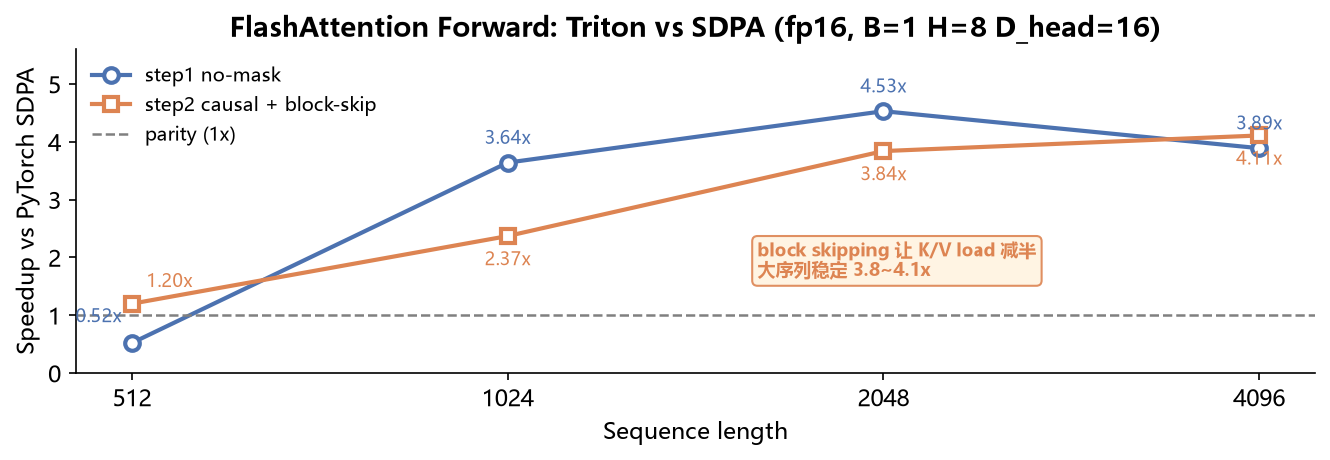
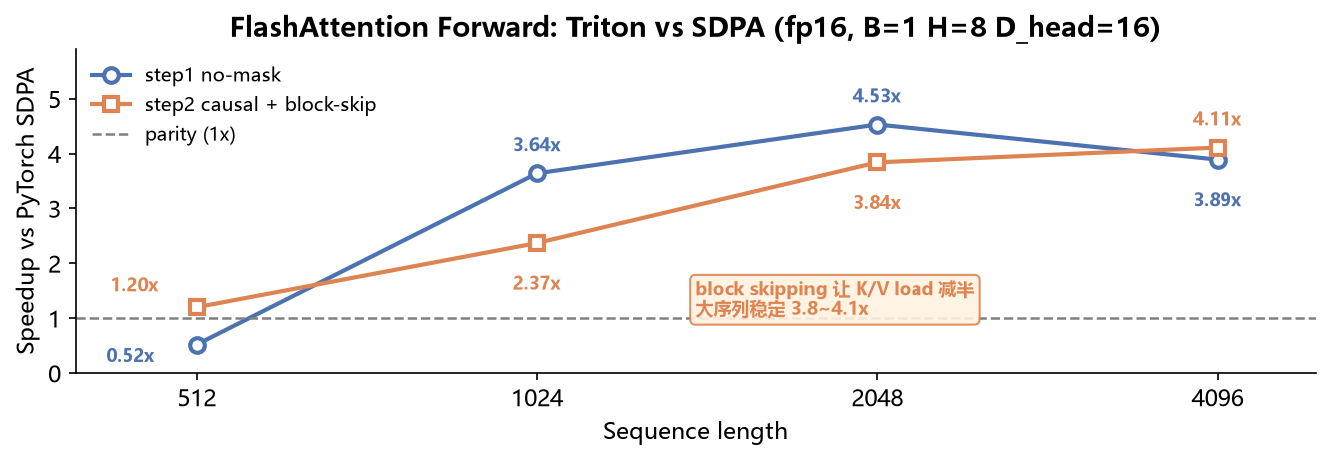
fix: 前向加速比图数值标签避开曲线与标记

diff --git a/plot_figures.py b/plot_figures.py
@@ -38,14 +38,17 @@ ax.plot(S, s1, marker="o", markersize=7, linewidth=2, color=C_BASE,
 ax.plot(S, s2, marker="s", markersize=7, linewidth=2, color=C_ACC,
         markerfacecolor="white", markeredgewidth=2, label="step2 causal + block-skip")
 ax.axhline(1.0, color="gray", linestyle="--", linewidth=1.2, label="parity (1x)")
-for x, y in zip(S, s1):
-    ax.annotate(f"{y:.2f}x", (x, y), textcoords="offset points",
-                xytext=(-16, 10) if y < 1 else (0, 9),
-                ha="center", fontsize=8.5, color=C_BASE)
-for x, y in zip(S, s2):
-    ax.annotate(f"{y:.2f}x", (x, y), textcoords="offset points",
-                xytext=(18, 8) if y < 2 else (0, -14),
-                ha="center", fontsize=8.5, color=C_ACC)
+
+off1 = [(-20, -6), (0, 13), (0, 13), (0, -20)]
+off2 = [(-18, 10), (0, -20), (0, -20), (0, 13)]
+for x, y, (dx, dy) in zip(S, s1, off1):
+    ax.annotate(f"{y:.2f}x", (x, y), textcoords="offset points", xytext=(dx, dy),
+                ha="right" if dx < 0 else ("left" if dx > 0 else "center"),
+                va="center", fontsize=8.5, color=C_BASE, fontweight="bold")
+for x, y, (dx, dy) in zip(S, s2, off2):
+    ax.annotate(f"{y:.2f}x", (x, y), textcoords="offset points", xytext=(dx, dy),
+                ha="right" if dx < 0 else ("left" if dx > 0 else "center"),
+                va="center", fontsize=8.5, color=C_ACC, fontweight="bold")
 ax.set_xscale("log", base=2)
 ax.set_xticks(S)
 ax.set_xticklabels([str(s) for s in S])
@@ -53,9 +56,11 @@ ax.set_xlabel("Sequence length")
 ax.set_ylabel("Speedup vs PyTorch SDPA")
 ax.set_title("FlashAttention Forward: Triton vs SDPA (fp16, B=1 H=8 D_head=16)",
              fontweight="bold")
-ax.set_ylim(0, 5.6)
+ax.set_ylim(0, 5.9)
+ax.set_xlim(400, 5000)
+ax.margins(x=0.06)
 ax.legend(fontsize=9, frameon=False, loc="upper left")
-ax.text(0.55, 0.30, "block skipping 让 K/V load 减半\n大序列稳定 3.8~4.1x", transform=ax.transAxes,
+ax.text(0.5, 0.18, "block skipping 让 K/V load 减半\n大序列稳定 3.8~4.1x", transform=ax.transAxes,
         fontsize=8.5, color=C_ACC, fontweight="bold",
         bbox=dict(boxstyle="round,pad=0.3", fc="#FFF3E0", ec=C_ACC, alpha=0.9))
 fig.tight_layout()
